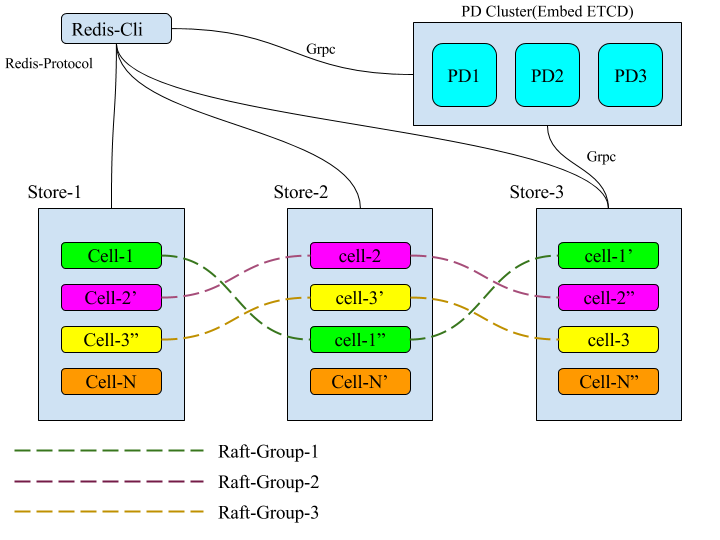
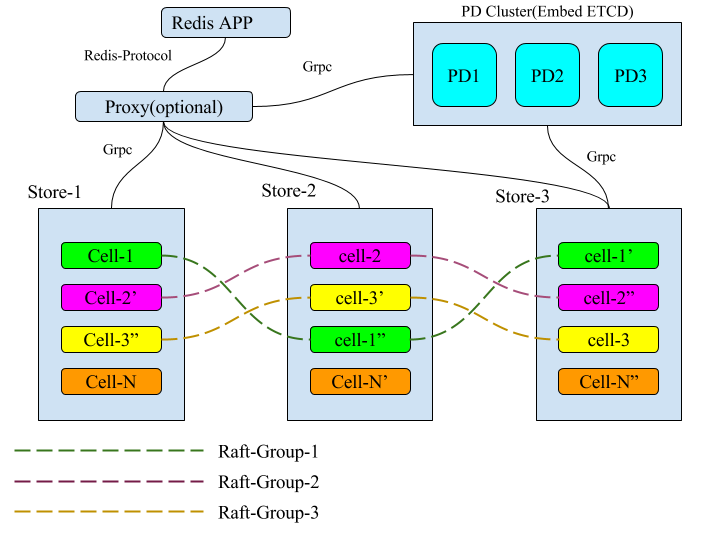
docs: add architecture concept

diff --git a/docs/architecture/concept.md b/docs/architecture/concept.md
@@ -1,0 +1,40 @@
+## Concept
+To better understand Elasticell’s architecture, you need to understand the Elasticell concept.
+
+### Store
+Store is a service that runs on a single disk. A store manage many cells, and provide data storage for cells, and dispatch messages to cells.
+
+### Cell
+A cell manage some data in range of [start, end), every cell has some replication on different stores, we called these replications Peer. All cell replications with has same id makes up a raft group. Cell's peer maybe scheduled by PD move to another store, or removed from the store.
+
+A cell has three meta data:
+
+1. ID, The uniquely identifies of a cell
+
+2. Data range, Decide which data is managed by the cell
+
+3. Peers, Cell replications
+
+4. Epoch, The version of the cell, it will increase every time the peers changes or cell split
+
+In the raft group, number of cell replications needs to be set an odd number. Usually it is recommended to set to 3 at least.
+
+### PD (Placement Driver)
+PD is the managing component of the entire cluster and is in charge of the following two operations:
+
+1. Storing the metadata of the cluster such as the cell location of a specific key.
+
+2. Scheduling and load balancing cells in the store cluster, including but not limited to data migration and Raft group leader transfer.
+
+As a cluster, PD needs to be deployed to an odd number of nodes. Usually it is recommended to deploy to 3 online nodes at least.
+
+### Proxy (optional component)
+The Proxy server is used for proxy the read and write operation for external application. The proxy is in charge of the following three operations:
+
+1. Sync cells metadata to local from PD
+
+2. Receive read and write operation from external application, and forward these operations to the correct store according to metadata and the key.
+
+3. Receive the response from the store, and forwarding it to the external application. Resynchronize the metadata from PD when an raft error occurs, and retry forward the operation.
+
+The proxy is stateless and can be scaled.

diff --git a/README.md b/README.md
@@ -13,7 +13,11 @@ Use Elasticell as Redis. You can replace Redis with Elasticell to power your app
 Grow Elasticell as your business grows. You can increase the capacity simply by adding more machines.
 
 - __Strong consistent persistence storage__
-You can think of Elasticell as a single-machine NoSQL which provide 7*24 service and has zero downtime. Elasticell put your data on multiple machines as replication without worrying about consistency. Elasticell makes your application use redis as a database and not just only the cache.
+Elasticell put your data on multiple machines as replication without worrying about consistency. Elasticell makes your application use redis as a database and not just only the cache.
+
+- __High availability__
+All of the three components, PD, Cell and Proxy, can tolerate the failure of some instances without impacting the availability of the entire cluster.
+
 
 ## Roadmap
 

diff --git a/docs/architecture/index.md b/docs/architecture/index.md
@@ -1,6 +1,9 @@
-## What is Elasticell?
+## Architecture
+To better understand Elasticell’s features, you need to understand the Elasticell architecture.
 
-Elasticell is a distributed NoSQL database with strong consistency and reliability.
+![architecture](../imgs/architecture.png)
+
+The Elasticell has threee components: PD server, cell server, and proxy server.
 
 ### __Compatible with Redis protocol__
 Use Elasticell as Redis. You can replace Redis with Elasticell to power your application without changing a single line of code in most cases([unsupport-redis-commands](./unsupport-command.md)).

diff --git a/docs/ROADMAP.md b/docs/ROADMAP.md
@@ -6,6 +6,7 @@ This document defines the roadmap for Elasticell development.
 - [x] Multi-Raft
 - [x] Redis protocol
 - [x] RocksDB 
+- [ ] Go,Java,Python redis lib
 - [ ] Prometheus
 - [ ] PD admin UI
 - [ ] Index
